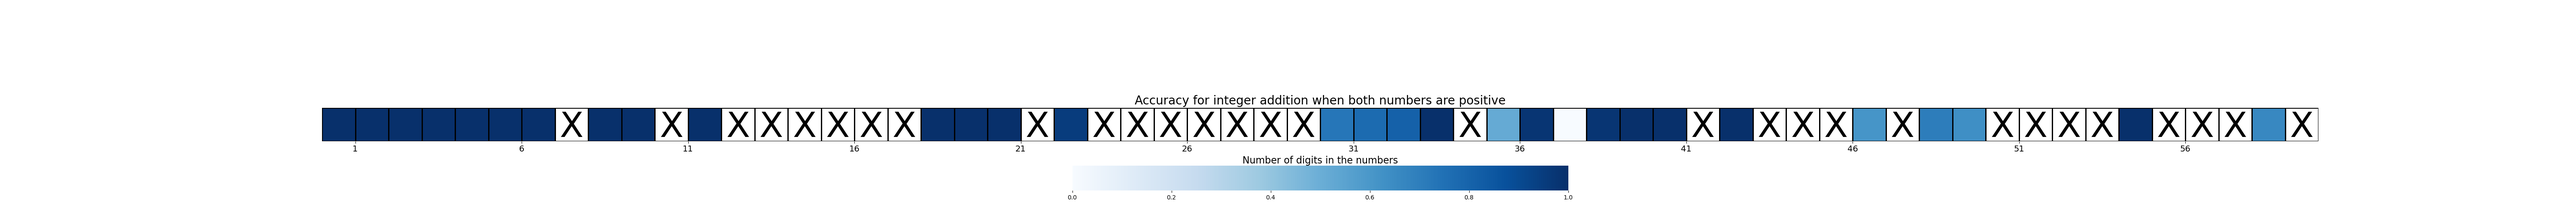
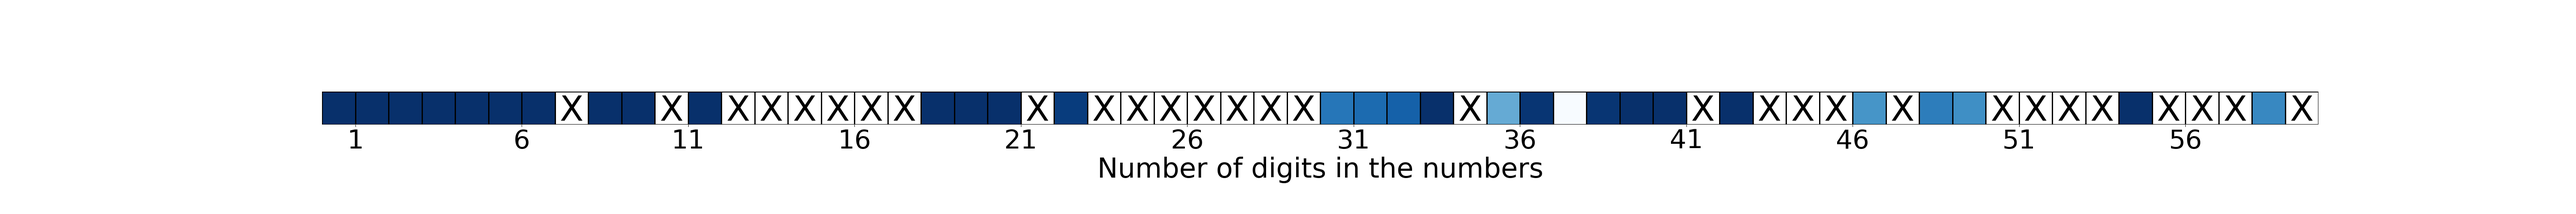
modify plots

Changed region(s): [[0.1247, 0.42, 0.9038, 0.69], [0.4052, 0.72, 0.6233, 0.9]]

diff --git a/code/eval_gpt/plots.py b/code/eval_gpt/plots.py
@@ -113,13 +113,13 @@ def plot_for_int_addition(responses_path):
 
     for i in range(3):
 
-        plt.figure(figsize=(60, 5))
+        plt.figure(figsize=(60, 14 if i==2 else 5))
         accuracy_i = np.expand_dims(accuracy[i], axis=0)
         mask = np.expand_dims(strike_off[i], axis=0)
-        sns.heatmap(accuracy_i, cmap = "Blues", annot=False, cbar=True, mask=mask, square=True, xticklabels=5, cbar_kws={"orientation": "horizontal"}, linewidths=1, linecolor='black', yticklabels=False)
-        plt.title("Accuracy for integer addition when " + ["both numbers are positive", "one number is negative", "both numbers are negative"][i], fontsize=20)
-        plt.xlabel("Number of digits in the numbers", fontsize=16)
-        plt.xticks(np.arange(1, 61, 5), np.arange(1, 61, 5), fontsize=14)
+        sns.heatmap(accuracy_i, cmap = "Blues", annot=False, cbar=True if i==2 else False, mask=mask, square=True, xticklabels=5, cbar_kws={"orientation": "horizontal"}, linewidths=1, linecolor='black', yticklabels=False)
+        #plt.title("Accuracy for integer addition when " + ["both numbers are positive", "one number is negative", "both numbers are negative"][i], fontsize=20)
+        plt.xlabel("Number of digits in the numbers", fontsize=46)
+        plt.xticks(np.arange(1, 61, 5), np.arange(1, 61, 5), fontsize=44)
         
         #cancel out the strike off cells
         for j in range(len(accuracy_i[0])):
@@ -413,7 +413,7 @@ def plot_for_list_sort(responses_path):
 
 
 if __name__ == "__main__":
-    #plot_for_int_addition("./int_addition_responses.txt")
+    plot_for_int_addition("./int_addition_responses.txt")
     plot_for_list_min("./list_min_responses.txt")
     plot_for_list_max("./list_max_responses.txt")
     plot_for_list_sort("./list_sort_responses.txt")
